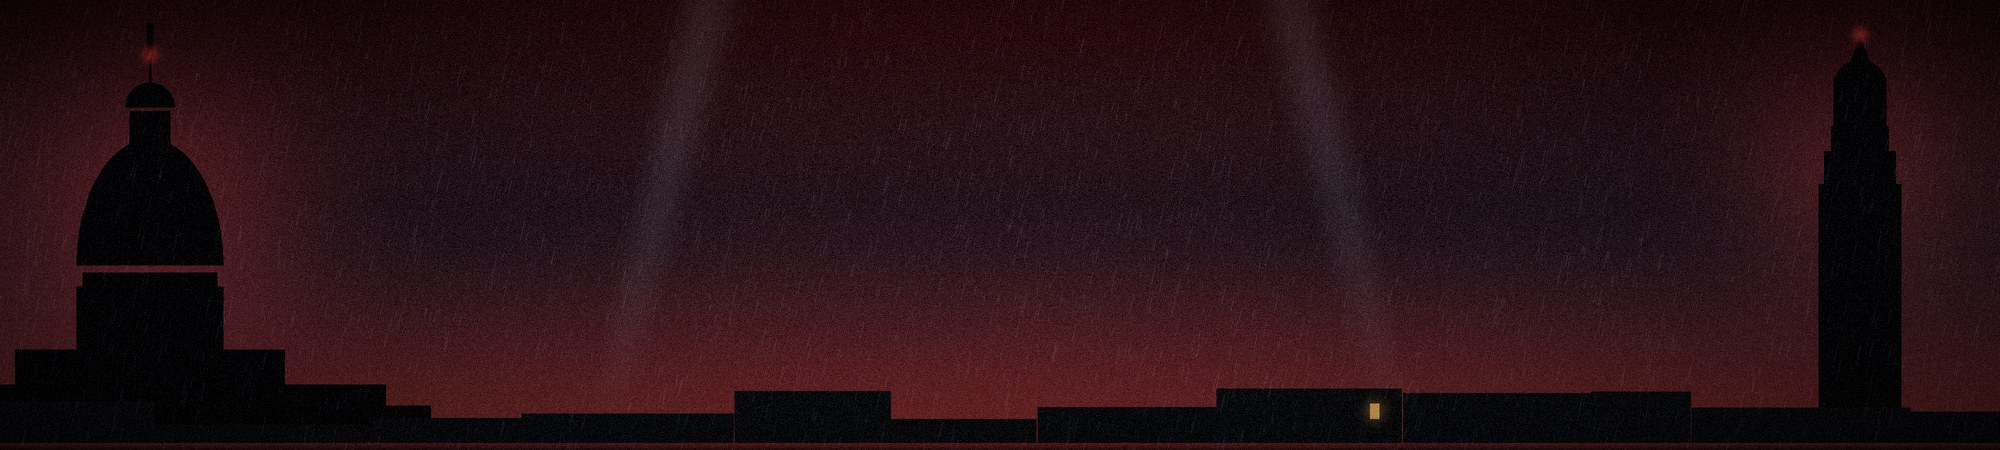
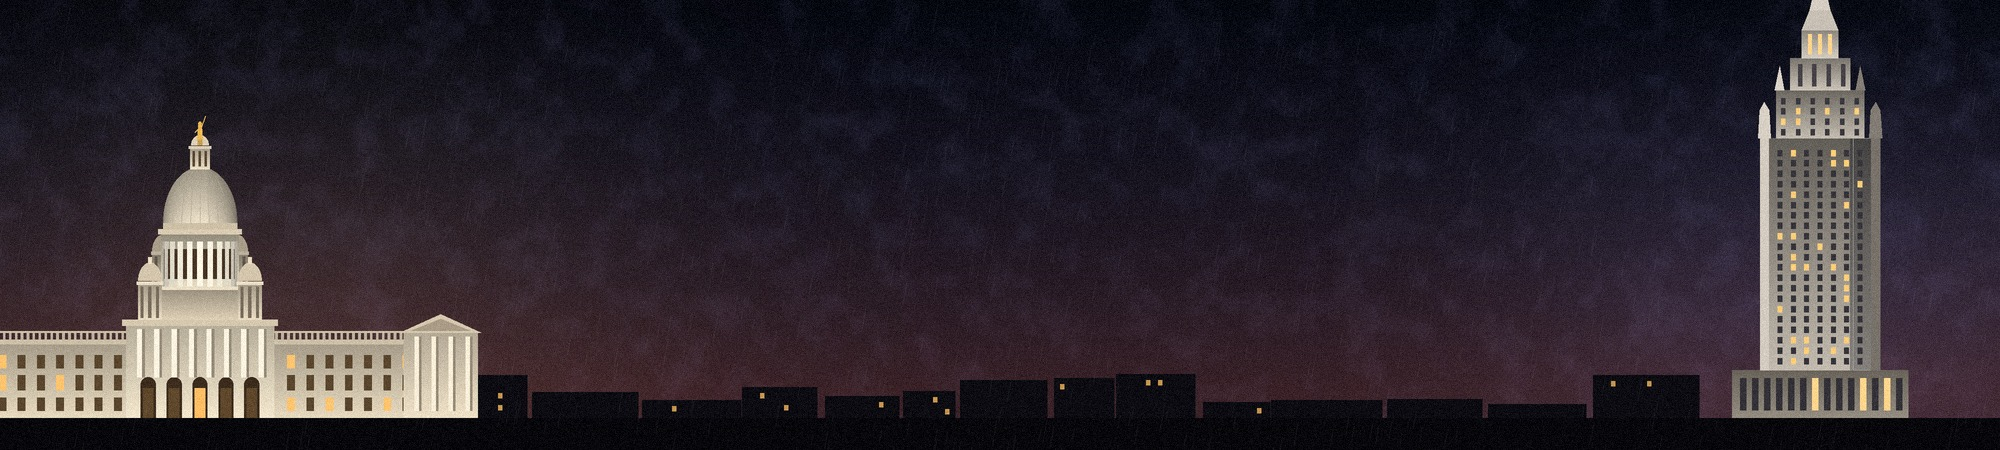
Masthead art: detailed State House and Superman Building at night
Claude-Session: https://claude.ai/code/session_01Rvhfw5TtgKAkgbhKuBbn5L

diff --git a/index.html b/index.html
@@ -358,7 +358,7 @@ html body .lsrow .lspot.hasad{animation:hgAd 5s ease-in-out infinite}
 <style id="edge">
 html,html body{background:#0D0D0F!important}
 html body .wrap,html body #view{background-color:transparent}
-html body .mast{background:linear-gradient(180deg,rgba(0,0,0,.15),rgba(0,0,0,.35)),url(img/mast-dome.jpg?v=3) center bottom/100% 100% no-repeat,#000!important;border-bottom:3px solid #C1121F!important}
+html body .mast{background:linear-gradient(180deg,rgba(0,0,0,.15),rgba(0,0,0,.35)),url(img/mast-dome.jpg?v=4) center bottom/100% 100% no-repeat,#000!important;border-bottom:3px solid #C1121F!important}
 html body .mast img{filter:drop-shadow(0 3px 0 #000) drop-shadow(0 0 22px rgba(0,0,0,.85))}
 html body .lsrow .lspot[data-look]:not(.t-ad):not(.t-adimg):not(.hasad){background:linear-gradient(180deg,#1A1B1F 0,#121316 100%)!important;border-top:3px solid #C1121F!important;border-radius:14px;box-shadow:inset 0 0 0 1px rgba(221,225,230,.1)!important}
 html body .lsrow .lspot[data-look]:not(.t-ad):not(.t-adimg):not(.hasad)::before,html body .lsrow .lspot[data-look]:not(.t-ad):not(.t-adimg):not(.hasad)::after{background:none!important}
@@ -3141,6 +3141,6 @@ go();addEventListener('DOMContentLoaded',go);setTimeout(go,1500)})();</script>
 <link rel="stylesheet" href="compact.css?v=20261112t">
 <script>/* mark the current page so compact.css can hide the promo grid on information pages */
 (function(){let last;const tick=()=>{const v=(typeof STATE!=="undefined"&&STATE.view)||"";if(v!==last){last=v;document.documentElement.dataset.v=v}};tick();setInterval(tick,250)})();</script>
-<style id="riMast">html body header.mast,html:not(#z) body header.mast{background:linear-gradient(180deg,rgba(0,0,0,.1),rgba(0,0,0,.4)),url(img/mast-dome.jpg?v=3) center bottom/100% 100% no-repeat,#000!important;border-bottom:3px solid #C1121F!important}</style>
+<style id="riMast">html body header.mast,html:not(#z) body header.mast{background:linear-gradient(180deg,rgba(0,0,0,.1),rgba(0,0,0,.4)),url(img/mast-dome.jpg?v=4) center bottom/100% 100% no-repeat,#000!important;border-bottom:3px solid #C1121F!important}</style>
 </body>
 </html>

diff --git a/sw.js b/sw.js
@@ -1,5 +1,5 @@
 /* Rhode Island Hurricane app: fresh news first, saved copy when offline. */
-const V='hurricane-v505';
+const V='hurricane-v506';
 const CORE=['/','/img/hurricane-masthead.png'];
 self.addEventListener('install',e=>{e.waitUntil(caches.open(V).then(c=>c.addAll(CORE)).catch(()=>{}));self.skipWaiting();});
 self.addEventListener('activate',e=>{e.waitUntil(caches.keys().then(ks=>Promise.all(ks.filter(k=>k!==V).map(k=>caches.delete(k)))).then(()=>self.clients.claim()));});
